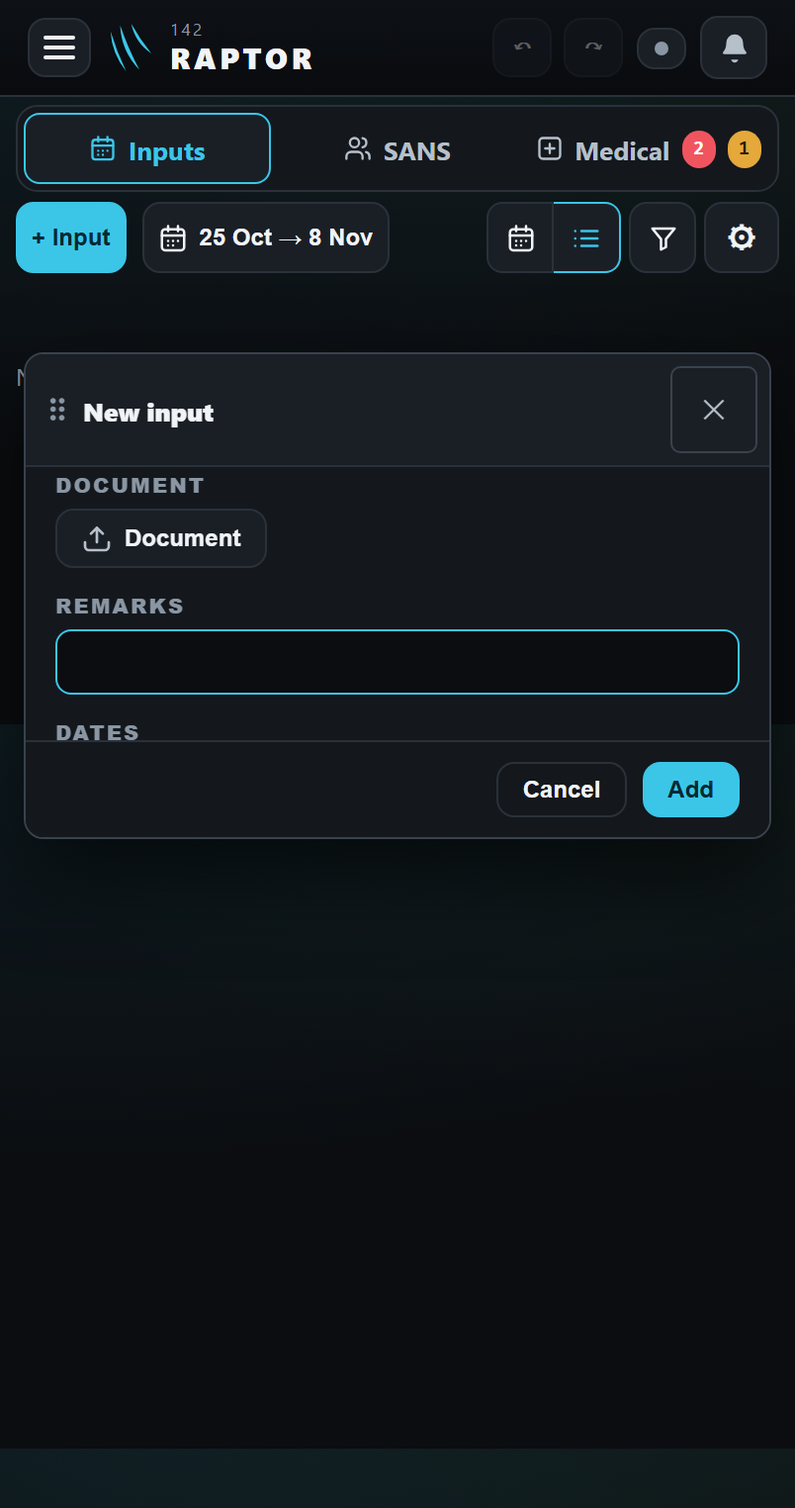
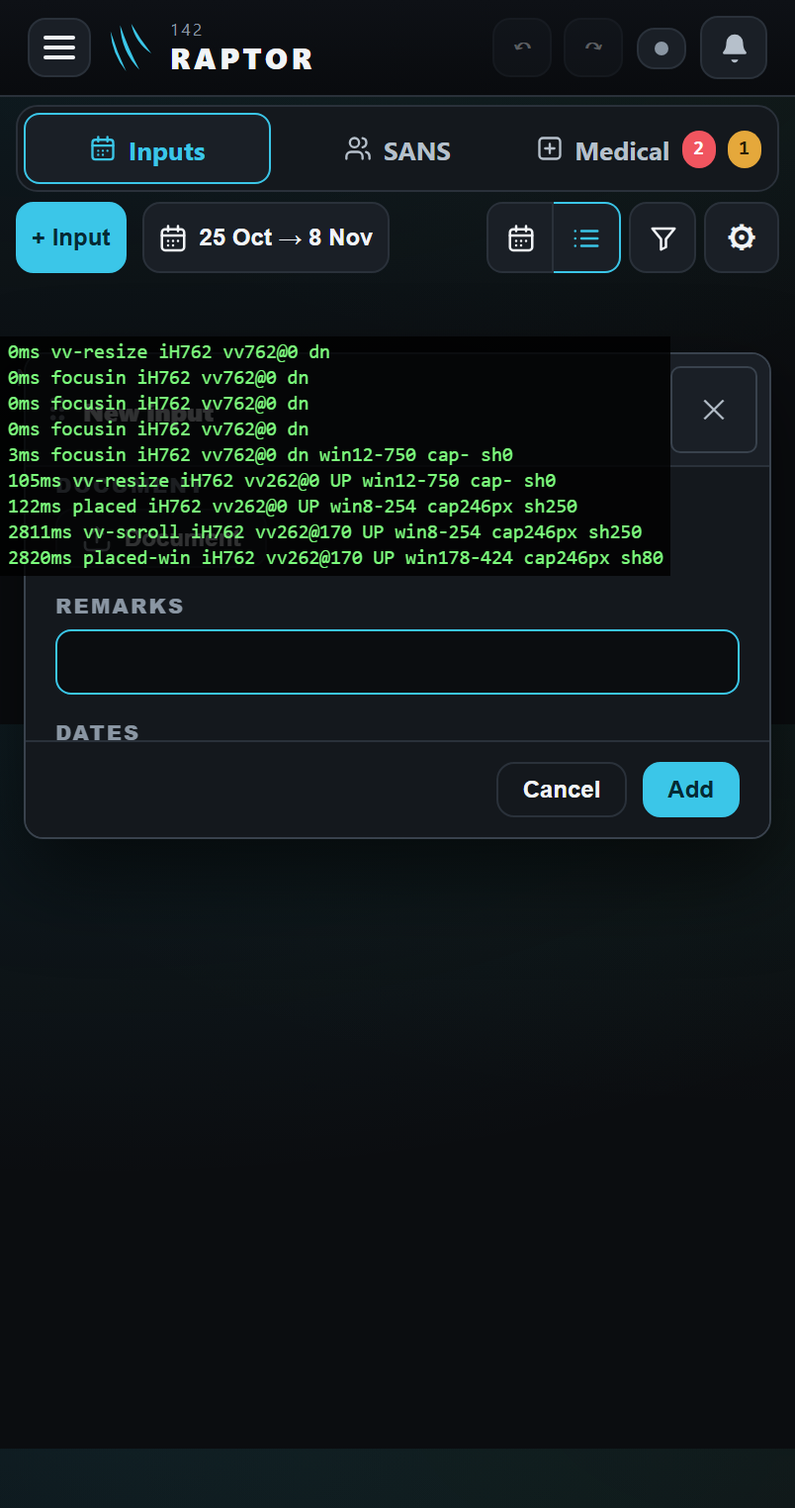
His recordings of 08:05: the hold now brings a window DOWN to the visible screen when the phone panned past its own place; ?kbdebug shows the phone's numbers on screen; the block rewritten as a handoff
"Other" and OD with the iPhone's form bar: the phone panned the visible screen down past the window's own place as the keys
came, and the hold pinned a window by raising it only, so it stayed above the screen - title off the top, a band under it,
Remarks behind Cancel / Add. pin() moves a window up or down to the visible top; a window that fits comes down to it too,
below its own place only when the phone panned past that place (a first, wider version moved full-screen panels at the top;
two older cases caught it). Red first: two kbscroll.test.ts cases failed on the previous code; e2e KS3f (OD, the keys and a pan
together). ?kbdebug: a small box at the top of the visible screen with the layout's and visible screen's sizes, the pan, the
keys, and the window's top, foot, hold and shift, event by event. kbscroll.test.ts 36/36, e2e kbscroll 13/13.

Changed region(s): [[0.0, 0.2159, 0.8706, 0.4009]]

diff --git a/raptor-port/src/ui/kbscroll.ts b/raptor-port/src/ui/kbscroll.ts
@@ -130,8 +130,10 @@ function lift(sc: Element, el: HTMLElement, bot: number, top: number): number {
 const LIFTED = new Set<HTMLElement>()
 const shiftOf = (l: HTMLElement) => +(l.dataset.kblift || 0)
 const held = (l: HTMLElement) => l.dataset.kbcap != null
+/* `s` up the screen; below zero, down it — a window the phone's own pan left above the visible screen comes down to it
+   (his recordings of 25 Oct 26 08:05, below at pin) */
 function setShift(l: HTMLElement, s: number) {
-  if (s > 0.5) { l.style.translate = `0 ${-Math.round(s)}px`; l.dataset.kblift = String(Math.round(s)); LIFTED.add(l); return }
+  if (Math.abs(s) > 0.5) { l.style.translate = `0 ${-Math.round(s)}px`; l.dataset.kblift = String(Math.round(s)); LIFTED.add(l); return }
   l.style.translate = ''; delete l.dataset.kblift
   if (!held(l)) LIFTED.delete(l)
 }
@@ -168,10 +170,16 @@ export function dropLifts(keep?: Element | null) {
   for (const l of [...FULL]) if (!keep || !l.contains(keep)) unholdFull(l)
   if (!keep && SPACER) { SPACER.remove(); SPACER = null }
 }
-/* a held window: held to the room again (the room may have changed), its top at the top */
+/* a held window: held to the room again (the room may have changed), its top at the top — UP OR DOWN (his recordings of
+   25 Oct 26 08:05, "Other" and OD, Remarks tapped: the iPhone had panned the visible screen down past where the window's own
+   place puts it, and the hold, which only ever raised a window, left it there — its title off the screen, a band of some 110
+   points between its foot and the keys, Remarks at its foot behind Cancel / Add) */
 function pin(l: HTMLElement, s0: number, visTop: number, visBot: number) {
   cap(l, visBot - visTop - 2 * GAP)
-  setShift(l, Math.max(0, s0 + l.getBoundingClientRect().top - (visTop + GAP)))
+  /* where the window's own place is (its top, less the shift it wears); below it only when the phone panned past it */
+  const own = l.getBoundingClientRect().top + s0
+  const s = own - (visTop + GAP)
+  setShift(l, own < visTop - 0.5 ? s : Math.max(0, s))
 }
 function raise(fixedEl: HTMLElement, el: HTMLElement, visTop: number, visBot: number): number {
   const fr = fixedEl.getBoundingClientRect()
@@ -196,9 +204,13 @@ function raise(fixedEl: HTMLElement, el: HTMLElement, visTop: number, visBot: nu
     pin(layer, s0, visTop, visBot)
     return 1
   }
-  const d = need > 0 ? Math.min(need, room) : Math.max(need, -s0)
+  let d = need > 0 ? Math.min(need, room) : Math.max(need, -s0)
+  /* a window that fits, its top left above the visible screen by the phone's own pan (his recordings of 25 Oct 26 08:05):
+     down to the visible top, past where it stands if need be — only then; otherwise never below where it stood */
+  const below = lr.top + s0 < visTop - 0.5 && lr.top - d < visTop + GAP - 0.5
+  if (below) d = lr.top - (visTop + GAP)
   if (Math.abs(d) < 0.5) return 0
-  setShift(layer, Math.max(0, s0 + d))
+  setShift(layer, below ? s0 + d : Math.max(0, s0 + d))
   return Math.abs(shiftOf(layer) - s0)
 }
 
@@ -333,9 +345,12 @@ export function installKbScroll(): () => void {
     if (!box || document.activeElement !== box || !box.isConnected || !keyboardUp(vv)) return
     /* a pan long after the focus: the window follows the visible screen, and nothing inside it is scrolled — a box he
        scrolled away from in it stays where he put it */
-    if (onlyWindow) { onlyWindow = false; const l = layerOf(box); if (l) raise(l, box, vv!.offsetTop, vv!.offsetTop + vv!.height); return }
+    if (onlyWindow) { onlyWindow = false; const l = layerOf(box); if (l) raise(l, box, vv!.offsetTop, vv!.offsetTop + vv!.height); placed('placed-win'); return }
     keepAboveKeyboard(box, vv!)
+    placed('placed')
   }
+  /* the readout's line after each placing (below); a no-op without ?kbdebug */
+  let placed: (ev: string) => void = () => {}
   /* two frames on: the board and the sheets re-fit themselves to the same resize first (their own listeners), and the
      box is measured where they left it */
   const soon = (windowOnly = false) => {
@@ -390,6 +405,35 @@ export function installKbScroll(): () => void {
     vvNow = vv; vvNow?.addEventListener('resize', resize); vvNow?.addEventListener('scroll', scroll)
   }
   follow(); noteFullHeight()
+  /* THE PHONE'S OWN NUMBERS ON SCREEN, ON ASKING (his recordings of 25 Oct 26 — Chromium cannot raise an iPhone's keyboard,
+     so what his phone does is read off his screen): with `?kbdebug` in the address, a small box at the top of the visible
+     screen shows the layout's height, the visible screen's height and pan, whether the keys count as up, and the window of
+     the box typed in — its top and foot, its hold and shift — line by line as each event comes. Nothing without it. */
+  const debug = typeof location !== 'undefined' && /[?&]kbdebug\b/.test(location.search)
+  let dbgEl: HTMLElement | null = null
+  const dbgLines: string[] = []
+  const dbg = (ev: string) => {
+    if (!debug) return
+    if (!dbgEl) {
+      dbgEl = document.createElement('div'); dbgEl.setAttribute('aria-hidden', 'true')
+      Object.assign(dbgEl.style, { position: 'fixed', left: '0', zIndex: '2147483647', pointerEvents: 'none', font: '10px/1.3 monospace', color: '#7CFC7C', background: 'rgba(0,0,0,.8)', padding: '2px 4px', whiteSpace: 'pre', maxWidth: '100vw' })
+      document.body.appendChild(dbgEl)
+    }
+    const vv = window.visualViewport
+    const l = box ? layerOf(box) : null, r = l?.getBoundingClientRect()
+    const t = box ? Date.now() - at : 0
+    dbgLines.push(`${t}ms ${ev} iH${Math.round(window.innerHeight)} vv${vv ? Math.round(vv.height) + '@' + Math.round(vv.offsetTop) : '-'} ${keyboardUp(vv) ? 'UP' : 'dn'}` +
+      (r ? ` win${Math.round(r.top)}-${Math.round(r.bottom)} cap${l!.style.getPropertyValue('--kbcap') || '-'} sh${l!.dataset.kblift || 0}` : ''))
+    while (dbgLines.length > 9) dbgLines.shift()
+    dbgEl.textContent = dbgLines.join('\n')
+    dbgEl.style.top = Math.round(vv ? vv.offsetTop : 0) + 'px'
+  }
+  if (debug) {
+    placed = dbg
+    for (const [tgt, ev] of [[document, 'focusin'], [window, 'resize']] as const) tgt.addEventListener(ev, () => requestAnimationFrame(() => dbg(ev)), true)
+    window.visualViewport?.addEventListener('resize', () => requestAnimationFrame(() => dbg('vv-resize')))
+    window.visualViewport?.addEventListener('scroll', () => requestAnimationFrame(() => dbg('vv-scroll')))
+  }
   const focusAlso = (e: FocusEvent) => { follow(); focusin(e) }
   document.addEventListener('focusin', focusAlso, true)
   document.addEventListener('focusout', focusout, true)

diff --git a/raptor-port/e2e/kbscroll.spec.ts b/raptor-port/e2e/kbscroll.spec.ts
@@ -186,6 +186,35 @@ test.describe('the box being typed in shows above the keyboard — phone', () =>
     expect(bBot, 'and above the keys').toBeLessThanOrEqual(H - kb - GAP + 1)
   })
 
+  /* KS3f — his recordings of 25 Oct 26 08:05 ("Other", OD, the ˄ ˅ ✓ bar): the phone panned the visible screen down past the
+     window's own place as the keys came, and the hold — which only ever raised a window — left its title off the screen and
+     a band between its foot and the keys. */
+  test('KS3f the phone pans past the window as the keys come: the held window comes down to the visible top, no band, Remarks shown', async ({ page }) => {
+    await login(page); await go(page, 'inputs')
+    await page.click('#inListBtn'); await page.click('#inNew')
+    const win = page.locator('[data-testid="win-inputedit"]')
+    await expect(win).toBeVisible()
+    await page.evaluate(() => {
+      const s = [...document.querySelectorAll('[data-testid="win-inputedit"] select')].find(s => [...(s as HTMLSelectElement).options].some(o => o.text.trim() === 'OD'))
+      s!.setAttribute('data-kind-sel', '')
+    })
+    await win.locator('select[data-kind-sel]').selectOption({ label: 'OD' })
+    const box = page.locator('#inpEditRmk'), foot = win.locator('.airpop-foot')
+    await box.evaluate(e => e.scrollIntoView({ block: 'nearest' }))
+    await page.waitForTimeout(600)
+    await tap(page, box); await expect(box).toBeFocused()
+    const kb = 460, PAN = 186
+    /* the keys and the phone's own pan together, as his recording shows them */
+    await page.evaluate(([k, p]) => { const v = (window as any).__vv; v.height = innerHeight - k; v.offsetTop = p; v.pageTop = p; v.dispatchEvent(new Event('resize')); v.dispatchEvent(new Event('scroll')) }, [kb, PAN])
+    await expect.poll(() => win.evaluate((e, p) => Math.round(e.getBoundingClientRect().top - p), PAN), { message: 'its title at the visible top' }).toBeGreaterThanOrEqual(0)
+    const winBot = await win.evaluate((e, p) => Math.round(e.getBoundingClientRect().bottom - p), PAN)
+    expect(winBot, 'no band left between the window and the keys').toBeGreaterThanOrEqual(H - kb - 3 * GAP)
+    const bBot = await box.evaluate((e, p) => Math.round(e.getBoundingClientRect().bottom - p), PAN)
+    const fTop = await foot.evaluate((e, p) => Math.round(e.getBoundingClientRect().top - p), PAN)
+    expect(bBot, 'Remarks above Cancel / Add').toBeLessThanOrEqual(fTop)
+    expect(bBot, 'and above the keys').toBeLessThanOrEqual(H - kb - GAP + 1)
+  })
+
   /* KS6 — D1081 (his recordings: the board a frame or three out of place as the keys closed, first when it followed the
      visible screen on its events, still when it followed frame by frame). The board is no longer placed by script at all:
      it keeps the layout's full size whatever the visible screen does, so it moves with the iPhone's own scroll. And a

diff --git a/raptor-port/src/ui/kbscroll.test.ts b/raptor-port/src/ui/kbscroll.test.ts
@@ -235,6 +235,43 @@ describe('a window that cannot scroll is raised instead', () => {
   })
 })
 
+/* HIS RECORDINGS, 25 Oct 26 08:05 — "Other" and OD, Remarks tapped, the iPhone's ˄ ˅ ✓ bar over the keys: the phone had
+   panned the visible screen down (offsetTop 186) past where the window's own place puts it (its top at 12), and the hold,
+   which only ever raised a window, left it there: its title off the screen, a band between its foot and the keys. */
+describe('a window the phone panned past', () => {
+  const vvPanned = { height: 416, offsetTop: 186, scale: 1 }   // the visible screen: 186–602 of the layout
+  afterEach(() => dropLifts())
+  const tall = (h: number) => {
+    document.body.innerHTML = '<div id="w" style="position:fixed"><input id="b"></div>'
+    const w = document.getElementById('w')!, b = document.getElementById('b') as HTMLInputElement
+    let st = 0
+    w.style.overflowY = 'auto'
+    const wh = () => (w.dataset.kbcap != null ? parseInt(w.style.getPropertyValue('--kbcap')) : h)
+    Object.defineProperty(w, 'scrollTop', { configurable: true, get: () => st, set: v => { st = Math.max(0, Math.min(Math.max(0, 700 - wh()), v)) } })
+    Object.defineProperty(w, 'scrollHeight', { configurable: true, get: () => Math.max(700, wh()) })
+    Object.defineProperty(w, 'clientHeight', { configurable: true, get: () => wh() })
+    w.getBoundingClientRect = () => { const top = 12 - +(w.dataset.kblift || 0); return { top, bottom: top + wh(), left: 0, right: 100, width: 100, height: wh(), x: 0, y: top, toJSON() {} } as DOMRect }
+    return { w, b }
+  }
+  it('a window taller than the room: held to it and brought DOWN to the visible top — no band, the title in sight, the box shown', () => {
+    const { w, b } = tall(700)
+    place(b, 470, 30)                                          // in sight of the visible screen (186–602) already
+    keepAboveKeyboard(b, vvPanned)
+    expect(w.style.getPropertyValue('--kbcap')).toBe(`${416 - 2 * GAP}px`)
+    expect(w.getBoundingClientRect().top, 'its title at the visible top').toBe(186 + GAP)
+    expect(w.getBoundingClientRect().bottom, 'its foot at the keys, no band').toBe(186 + 416 - GAP)
+    expect(b.getBoundingClientRect().top).toBeGreaterThanOrEqual(186 + GAP)
+    expect(b.getBoundingClientRect().bottom).toBeLessThanOrEqual(186 + 416 - GAP)
+  })
+  it('a window that fits, its top above the visible screen: brought down to the visible top, not held', () => {
+    const { w, b } = tall(300)
+    place(b, 200, 30)
+    keepAboveKeyboard(b, vvPanned)
+    expect(w.dataset.kbcap).toBeUndefined()
+    expect(w.getBoundingClientRect().top).toBe(186 + GAP)
+  })
+})
+
 describe('keyboardUp', () => {
   it('reads a keyboard from a visible screen much shorter than the layout, never while pinch-zoomed', () => {
     expect(keyboardUp(vvUp)).toBe(true)

diff --git a/HANDOFF.md b/HANDOFF.md
@@ -21,28 +21,18 @@ the later merge keeps both (D78).
 
 ## Now
 <!-- now:claude/lw-m3-placing-leave -->
-### `claude/lw-m3-placing-leave` — THE NIGHT OF 25 OCT 26 DONE: three builds FULL-checked and closed, the drawings on his page; next: his answers (N1–N5), then build them — written 25 Oct 26, 05:30 — verify before use
-- **After a compaction:** re-read this block, the overnight guide (`.claude/skills/overnight/SKILL.md`) and the files of the step in hand before the next change; note the compaction here with its time.
-- **Compacted 25 Oct 26, 06:58** (the morning, his follow-ups drawn); after it: the OTH question’s pictures being taken (`2026-10-25-lw-drawings/oth/`, script `lw-1025-oth.mjs`), the answer put to him with them.
-- **His word:** /overnight 12; then "The rest of the questions as recommended" (recorded D1350–D1355); asked for the drawings to answer before sleeping, then "Nvm u work on overnight I'll sleep" — so the night runs the recommended jobs, and the looks he has not yet seen in a picture wait for his morning answers (a skipped question is never a yes).
-- **Branch:** `claude/lw-m3-placing-leave` (upstream `origin/claude/lw-m3-placing-leave`), pull request 569, open, not merged; it carries 568 merged in. "Merge live" is his; 568 first (D78). Nothing merges tonight; nothing touches `main`.
-- **The night, in order (one branch, one FULL check of the builds — D485):**
-  1. **The bubble (his report; D1344, D1345, D1351)** — BUILT (fb564b6a8, 245ea4fb9): red when it says red, raised again by every bid, filing or move that takes an amber or red row lower ("This bid takes Available P lower, still red." — words his to change), at the foot too, naming a filing ("This UNA …", "This overseas duty …"). `bidbubble.test.tsx` 26 / 26, red first.
-  2. **The drag window's words kept (D1339, D1341)** — BUILT (4ce6bf536): typed words written on every dragged day's entry before Approve, Refuse or Move, replacing their remarks; an empty box changes nothing (the agent's reading). `dragwords.test.tsx` 5 / 5, red first; neighbours 178 / 178.
-  3. **A tap on a half-day UNA's day opens the free half's window (D1353)** — HELD as a question: the day's list is today where an admin changes a half-day UNA's remarks or takes it away and where everyone reads its remarks; the window would lose those, which the ruling does not cover — drawn for him (`2026-10-25-lw-drawings/una-tap/`), nothing built.
-  4. **His own approved leave and his closed day take round 3's one Remarks row (D1354)** — BUILT (87eebf967): saved as it changes, no Save; red first, 23 / 23, neighbours 89 / 89.
-  5. **[LW-ENTERED-DATE-UTC]** — found already built with M3 (08b5936ee) and never closed: archived (b1503f863). GitHub's build had failed on the bubble's blank Available figure — fixed in the same commit, checked with the real build.
-  6. **The FULL check of 1, 2, 4 — CLOSED** (sheet `raptor-port/docs/handpass/2026-10-25-lw-night.md`, its Walk line): the designer's 4 gaps, the walk's 7 faults, the code read's 6 (R1–R6), the narrow reads' 5 (N1–N4, T1) all fixed; re-walk 47 / 47; older finds filed [LW-NIGHT1025-OLDER] — (a) words typed for an afternoon bid land on the morning bid, to fix first.
-  7. **The morning page** — PUBLISHED (version 3): drafted at `raptor-port/docs/img/handpass/2026-10-25-lw-drawings/page/index.html` (N1–N5, B1, the answered list); N5's pictures to add from `una-tap/`; published to https://claude.ai/artifact/AuALCgzEgpoxooyyGX7EM6 (files mapped `n25/<folder>/<file>` from `2026-10-25-lw-drawings/`) as the night's last step.
-  8. **[LW-READS-OWED-1024]** — DONE (6aff8a7db): nine short lines and two full-row marks fixed, lesson 54 corrected; lessons 49, 50, 52 left, their fixes worded in `parts/lw-1025/reads-1305-1355.md`. Design lesson 54 written (D941).
-- **Drawn tonight, all in `raptor-port/docs/img/handpass/2026-10-25-lw-drawings/`:** `contrast/` and `critique-a/` (the lit Approve / Refuse — D1348, D1355; the design skill's critique, both assessments saved whole in `raptor-port/docs/handpass/parts/lw-1025/critique-a.md`, `critique-b.md`); `bubble/` (job 1's look); `multi-day/` (D1340); `una-grey/` and `drag-remarks/` (D1349, D1347 — the helper still drawing when this was written).
-- **Morning of 25 Oct 26, after the compaction:** (1) **his bug — the input window's Remarks behind Cancel / Add on his iPhone — FIXED** (0d1e5ec42): the keyboard lift (`src/ui/kbscroll.ts keptClear`) keeps clear of a panel's pinned foot (its scroll padding; a sticky button row three deep); red first (`kbscroll.test.ts` 3 cases, `e2e/kbscroll.spec.ts` KS3d), WALK sheet `raptor-port/docs/handpass/2026-10-25-kbs-other-remarks.md` with its Walk line, §7.11 lesson 5 (one fresh reader, its wording taken); his iPhone look waits; the cut-off top and band — a late pan of the screen the held window did not follow — read from his recording of 07:40 and fixed too (KS3e). (2) **The questions page is version 6** (https://claude.ai/artifact/AuALCgzEgpoxooyyGX7EM6): only what is open, newest first (his "remove the not applicable … should it always be at the top" — put to him as a question, recommended yes; it would narrow D1237): K1 (the fix, his look), O1 ("Other" in place of UNA — recommended yes: whoever files an Other picks Ground Programme or Unavailable, one under Unavailable counts him out on the Leave War with its remarks; his leaning, members choose too, "I don't think anyone is dumb enough to put it in the wrong category"; not a ruling until he answers — D1343's lesson; a yes replaces D1338 and changes D998, D1303's worry, D1349, D1353, D1351's "This UNA"; the follow-on question — other commitments under Unavailable — comes after), N3 (the joined bar, and on a busy first or last day the bar runs to that day's middle — his idea, drawn `multi-day/half1–4`; a middle day breaks), B1b, N2, N4, B1. N1 and N5 left the page: they become Other's if O1 is yes. Pictures: `oth/` (script `lw-1025-oth.mjs`), `multi-day/half*`, `kbs/`. **Then: O1 answered "yes" — recorded D1356 (UNA goes; an Other under Unavailable counts him out), filed [LW-OTHER-UNAVAIL]; asked which other commitments should count under Unavailable, and whether the bubble should always sit at the foot — both open.**
-- **Questions waiting for him (each its picture on the morning page; put in D1301's order — a colour before the looks it shapes — so UNA's grey comes first):** (0) UNA's grey and Grant OIL's place (D1349); (1) the lit look — recommended: Approve and Refuse rest grey with their words coloured, the decided one solid green or red with dark words reading "Approved" / "Refused" (D1348, D1355); and a second tap on a lit Refuse sends the bid back to waiting, as Approve's does (D1330) — recommended yes; (2) how a multi-day entry reads as one — recommended the joined bar (D1340); (3) the drag window's remarks lines over separate entries (D1347). Each look waits for his answer; nothing of it is built tonight.
-- **Open residue:** [CSS-FONT-INHERIT]; [LW-PICK-HELD-MARK], [LW-MORE-BELOW-CUE], [LW-BID-BUBBLE] (D1344 settles its colour), [INP-CAL-CLICK-BEHIND-NEW], [INP-ADD-RIGHT], [LW-OPENDATES-X-SIZE]; [NO-ASTRA-LIST]. M4 and M5 must leave UNA out when built.
-- **Allowance:** weekly 78% at the start, 81% at the close (resets Mon 26 Oct, evening); this chat 91% full at the close, not compacted.
-- **Opening line:** Switch this chat to the branch claude/lw-m3-placing-leave: git fetch origin, git switch claude/lw-m3-placing-leave, git branch -u origin/claude/lw-m3-placing-leave, git pull --ff-only. If the switch is refused because another checkout holds the branch, release it there only if that checkout has no uncommitted changes and its HEAD equals git rev-parse origin/claude/lw-m3-placing-leave; then git -C <that folder> switch --detach and switch again; otherwise stop and tell me which folder holds it. Then read HANDOFF.md — the claude/lw-m3-placing-leave block under ## Now — record my answers to the questions page (N1–N5, B1's words), then build them on this branch with one check, and fix [LW-NIGHT1025-OLDER] (a) with them. Check Remote Control is on for this chat and switch it on if not.
-- **Running:** the preview on port 4180 (`raptor-preview`, this branch's build) — rebuilt only after the drawing helpers finish.
-- **Notes:** ruling numbers taken to D1355; observation numbers to 698. Traps: an inline `node -e` loses escapes — write scripts with the file tool; saved war records on a built site are `raptor:leavewar/rec:…` with `pid` / `date` (observation 696); the grid swaps the bid window for a filed input's own window once the tapped day holds it; a test of an approval needs the war wired to the Inputs page (`wireLeaveWarSync`, as `reqwords.test.ts`).
+### `claude/lw-m3-placing-leave` — 25 OCT 26: the night's three builds closed; his keyboard bug fixed in three rounds (his iPhone look owed); D1356–D1358 recorded; next: his remaining answers, then build them all with one check — written 25 Oct 26, 08:50 — verify before use
+- **After a compaction:** re-read this block and the files of the step in hand before the next change; note the compaction here with its time. (Compacted once, 25 Oct 26 06:58.)
+- **Branch:** `claude/lw-m3-placing-leave` (upstream `origin/claude/lw-m3-placing-leave` — check `branch.<b>.merge` before a push), pull request 569, open; it carries 568 merged in. "Merge live" is his; 568 first (D78). Nothing merged.
+- **The night of 25 Oct (closed):** the bubble (D1344, D1345, D1351), the drag window's words (D1339, D1341), the one Remarks row (D1354) — FULL-checked, sheet `raptor-port/docs/handpass/2026-10-25-lw-night.md` with its Walk line; older finds [LW-NIGHT1025-OLDER] — (a) words typed for an afternoon bid land on the morning bid, to fix first.
+- **His keyboard bug, this morning (three rounds, each red first, GitHub green on each push):** the input window's Remarks hidden behind Cancel / Add on his iPhone. (1) the lift keeps clear of a panel's pinned foot (`src/ui/kbscroll.ts keptClear`); (2) from his recording of 07:40, a window lifted for the keys follows a late pan or resize of the visible screen; (3) from his recordings of 08:05 ("Other" and OD, the ˄ ˅ ✓ bar), the pin brings a window DOWN to the visible top when the phone panned past its own place. `?kbdebug` in the address shows the phone's numbers on screen. Tests: `kbscroll.test.ts` 36, `e2e/kbscroll.spec.ts` KS3d–KS3f (13); walk sheet `raptor-port/docs/handpass/2026-10-25-kbs-other-remarks.md` (Walk line); §7.11 lesson 5; frames read with `scripts/handpass/video-frames.mjs`; replay `scripts/handpass/kbs-other-rmk.mjs` (KIND, H, KB, SHRINK, MODE=pan, FROM=day, KBDEBUG). **Owed: his iPhone look** — close the tab, reopen, Inputs → + Input → Other / OD (also from a calendar day) → Remarks; if it still fails, the same with `?kbdebug` and a recording.
+- **His rulings this morning:** D1356 ("O1 yes" — UNA goes; whoever files an Other picks Ground Programme or Unavailable; an Other under Unavailable counts him out on the Leave War with its remarks shown everywhere; Grant OIL takes the bid window's third place, Other into ⋯), D1357 ("2 yes" — any commitment under Unavailable counts him out, whatever its kind; only an Other gives its filer the choice), D1358 ("3 yes" — the manning bubble always at the foot, phone and desktop, Show › only while the Manning rows are out of view). Filed as [LW-OTHER-UNAVAIL] and [LW-BUBBLE-FOOT]. Each read by a fresh reader.
+- **The questions page, version 6** (https://claude.ai/artifact/AuALCgzEgpoxooyyGX7EM6; drafted at `raptor-port/docs/img/handpass/2026-10-25-lw-drawings/page/index.html`, pictures mapped `n25/<folder>/<file>`): only what is open, newest first. **Still open:** N3 (the joined bar; on a busy first or last day it runs to that day's middle, his idea — `multi-day/half1–4`; a middle day breaks), B1b (the bubble's figures, recommended "This bid: IP 16 → 15 · SXO 12 → 11"), N2 (the lit Approve / Refuse), N4 (the drag window's remarks lines), B1 (the bubble as built, his to change), and his question "only what is open, newest first on every page?" (recommended yes — it would narrow D1237). O1 answered (D1356). Last night's N1 (UNA's grey) and N5 (the half-day UNA tap) become an Other's colour and the half-day Other tap — to redraw for Other.
+- **Next, in order:** (1) his iPhone look at the keyboard fix; (2) his answers to N3, B1b, N2, N4 and the page question, recorded at once; (3) draw an Other's colour on the Leave War (D1349's grey beside it) and the half-day Other tap, put to him; (4) build on this branch, one FULL check: [LW-R2R3-ANSWERS-BUILD] (D1350–D1355 and his answers), [LW-OTHER-UNAVAIL] (D1356, D1357), [LW-BUBBLE-FOOT] (D1358), [LW-NIGHT1025-OLDER] (a).
+- **Open residue:** [CSS-FONT-INHERIT]; [LW-PICK-HELD-MARK], [LW-MORE-BELOW-CUE], [LW-BID-BUBBLE], [INP-CAL-CLICK-BEHIND-NEW], [INP-ADD-RIGHT], [LW-OPENDATES-X-SIZE]; [NO-ASTRA-LIST]. M4 and M5 must leave UNA out (it goes — D1356).
+- **Allowance:** weekly 83% (resets Mon 26 Oct, evening); this chat about 76% full at this writing.
+- **Opening line:** Switch this chat to the branch claude/lw-m3-placing-leave: git fetch origin, git switch claude/lw-m3-placing-leave, git branch -u origin/claude/lw-m3-placing-leave, git pull --ff-only. If the switch is refused because another checkout holds the branch, release it there only if that checkout has no uncommitted changes and its HEAD equals git rev-parse origin/claude/lw-m3-placing-leave; then git -C <that folder> switch --detach and switch again; otherwise stop and tell me which folder holds it. Then read HANDOFF.md — the claude/lw-m3-placing-leave block under ## Now — take my answers to the questions page (N3, B1b, N2, N4 and the page question), draw an Other's colour and the half-day Other tap for me, then build everything listed under "Next" on this branch with one FULL check. Check Remote Control is on for this chat and switch it on if not.
+- **Notes:** ruling numbers taken to D1358. Traps: an inline `node -e` or heredoc with an apostrophe mangles — write scripts with the file tool; `tsc --noEmit` is hollow, build with `npm run build`; a war test of an approval needs `wireLeaveWarSync`; his Safari keeps the page it loaded — ask him to reopen the tab before a look.
 <!-- /now -->
 <!-- now:claude/lw-phone-pinch-zoom -->
 ### `claude/lw-phone-pinch-zoom` — the Leave War's pinch to zoom ([LW-PHONE-PINCH-ZOOM]; D1282–D1285, D1228, D1276): built, walked, read; his iPhone look next — written 23 Oct 26, verify before use

diff --git a/raptor-port/docs/file-map.md b/raptor-port/docs/file-map.md
@@ -1,5 +1,5 @@
 # The file map — where each source file lives and what it does
-His report of 25 Oct 26 (the input window's Remarks behind Cancel / Add on his iPhone). **New:** `scripts/handpass/kbs-other-rmk.mjs` (the input window with a stand-in keyboard — a kind, the layout's and the keys' heights, the page shortened, a late pan), `scripts/handpass/kbs-hol.mjs` (Holidays' form the same way). **Changed:** `src/ui/kbscroll.ts` (a panel's pinned foot kept clear — `keptClear`; a window lifted for the keys follows a late pan or resize — `lifted`, `soon(true)`), `src/ui/kbscroll.test.ts` (five cases, one corrected), `e2e/kbscroll.spec.ts` (KS3d, KS3e).
+His report of 25 Oct 26 (the input window's Remarks behind Cancel / Add on his iPhone). **New:** `scripts/handpass/kbs-other-rmk.mjs` (the input window with a stand-in keyboard — a kind, the layout's and the keys' heights, the page shortened, a late pan), `scripts/handpass/kbs-hol.mjs` (Holidays' form the same way). **Changed:** `src/ui/kbscroll.ts` (a panel's pinned foot kept clear — `keptClear`; a window lifted for the keys follows a late pan or resize — `lifted`, `soon(true)`; the pin moves a window down to the visible top when the phone panned past it; `?kbdebug`, the phone's numbers on screen), `src/ui/kbscroll.test.ts` (seven cases, one corrected), `e2e/kbscroll.spec.ts` (KS3d, KS3e, KS3f); `scripts/handpass/kbs-other-rmk.mjs` takes FROM=day (opened from a calendar day) and KBDEBUG=1.
 The night of 25 Oct 26 on `claude/lw-m3-placing-leave` (his bubble report D1344, D1345, D1351; the drag window's words D1339, D1341; the drawings for D1348, D1349, D1340, D1347). **New:** `src/leavewar/ui/bidbubble.test.tsx`'s report cases (red when red, every lowering, a filing named), `src/leavewar/ui/dragwords.test.tsx` (the drag window's typed words kept on Approve, Refuse and Move), `scripts/handpass/lw-1025-contrast.mjs` (the lit Approve / Refuse, options A–C), `lw-1025-bubble.mjs` (the bubble today and drawn), `lw-1025-multiday.mjs` (a multi-day entry: his three boxes and the joined bar), `lw-1025-una-grey.mjs` (UNA grey in two shades, Grant OIL in the row, UNA in the ⋯), `lw-1025-drag-remarks.mjs` (the drag window's remarks lines); the pictures `docs/img/handpass/2026-10-25-lw-drawings/`; the design skill's critique `docs/handpass/parts/lw-1025/`. **Changed:** `src/leavewar/ui/Matrix.tsx` (`worsenedRows` reads each row's figure, `bubbleWords`, the bubble's level class), `src/leavewar/ui/chrome.css` (`.mnb-red`), `src/leavewar/state/store.ts` (`actCount`, `filedSince`, `setRemarksOn`), `src/leavewar/ui/SelectSheet.tsx` (`keepWords`).
 UNA on the Leave War only, an admin's ([LW-OTH-MANNING] — D1338), 24 Oct 26. **New:** `src/leavewar/una.test.ts` (the record, its halves, the day view, the store's admin-only commands, the commit's member check, a reload). **Renamed:** `src/engine/unakind.test.ts` → `src/engine/unagone.test.ts` (UNA is no input kind). **Changed:** `src/engine/inputs.ts`, `schema.ts`, `src/testing/refwin.ts`, `src/ui/inputscal-model.ts`, `scheduler/25-inputs-calendar.css` (UNA out of the Inputs side); `src/leavewar/engine/warrecs.ts` (`UnaRec`), `codes.ts` (UNA takes a half), `dayview.ts` (kind `una`: away, no charge), `charge.ts`, `state/merge.ts`, `state/daypanel.ts`, `ui/LeaveLine.tsx`; `src/leavewar/state/store.ts` (`placeUna`, `setUnaRemarks`, `removeUna`, `lw.una`; the deletes and the Move's stay list); `src/state/perms.ts` (`lw.una` and the commit's lw.cell check), `src/undo/describe.ts`; `ui/LeaveButtons.tsx` (`UnaButton`), `BidPicker.tsx`, `SelectSheet.tsx`, `DayList.tsx` (its line, `UnaWords`), `ReqWords.tsx` (`useGrow` exported), `Matrix.tsx`, `MatrixRows.tsx`, `Chrome.tsx`; `engine/seed.ts` (the demo's one UNA, a war record).
 Round 2 — a course, an overseas duty and the unforeseen absence filed on the Leave War ([LW-FILE-OD-CRS] — D1318, D1324, D1325), 24 Oct 26. **New:** `src/engine/unakind.test.ts` (UNA, the overseas duty's twin; the LATE mark skips it), `src/leavewar/ui/round2.test.tsx` (filed straight — the store, the one Undo, a member's own row, the three windows' rows, the Legend), `e2e/round2-leavewar.spec.ts` (the row's four even places and colours in a real browser), `docs/superpowers/specs/2026-10-24-lw-file-od-cse-una.md` (the design note). **Changed:** `src/engine/inputs.ts` (the kind UNA; `isLateInput`), `src/engine/schema.ts`, `src/testing/refwin.ts` (the reference's mirror of the kind sets), `src/leavewar/absences.ts`, `engine/dayview.ts`, `engine/codes.ts` (UNA a war kind, `una`), `src/leavewar/state/store.ts` (`fileStraight`, the absence door's `file`, `lw.file` registered), `src/leavewar/sync.ts` (`doorFile`), `src/state/perms.ts` and `src/undo/describe.ts` (`lw.file`), `src/leavewar/ui/LeaveButtons.tsx` (`DutyButtons`), `BidPicker.tsx`, `SelectSheet.tsx`, `ClosedNoteSheet.tsx` (the row), `Chrome.tsx` (the Legend's UNA), `matrix.css`, `src/ui/inputscal-model.ts` and `scheduler/25-inputs-calendar.css` (UNA's teal bar).

diff --git a/raptor-port/docs/ui-contracts.md b/raptor-port/docs/ui-contracts.md
@@ -843,7 +843,13 @@ own body scrolls the box into sight. **A window raised or held for the keys foll
 they are up and its box has the focus (his recording, 25 Oct 26 07:40 — the iPhone's password bar rose and the phone panned
 the screen some 170 points down after the focus window below; the held window stayed behind, its top off the screen, a band
 under it):** a late pan moves the window alone, nothing inside it scrolled; a late change of the room holds it to the new
-room and keeps its box in sight. **A panel's own pinned foot is kept clear (his report, 25 Oct 26 07:06 — the input
+room and keeps its box in sight. **And it comes DOWN to the visible screen when the phone panned past its own place (his
+recordings of 25 Oct 26 08:05, "Other" and OD with the ˄ ˅ ✓ bar):** the hold used to raise a window only, so a window whose
+own place lay above the visible screen stayed there — its title off the top, a band under it; now it is pinned to the visible
+top up or down, and a window that fits is brought down to it — below its own place only then. **`?kbdebug` in the address**
+shows the phone's own numbers in a small box at the top of the visible screen (the layout's height, the visible screen's height
+and pan, the keys up or down, the window's top, foot, hold and shift, event by event) — for reading a fault off his recording.
+**A panel's own pinned foot is kept clear (his report, 25 Oct 26 07:06 — the input
 window on his iPhone, "Other", Remarks tapped: Document, then Cancel / Add, no Remarks):** the floor a box is lifted to in a
 scrolling panel stands above what the panel covers at its edges — its `scroll-padding` (the input window's 64px) and a button
 row it holds sticky at its foot (its last child, three deep, measured as it stands — Holidays' buttons) — so a window held
@@ -871,7 +877,7 @@ the measuring back two frames, so the lift never adds to a pan the phone is stil
 itself — on his iPhone a focus given at the end of the touch never took (his recording of 19 Oct 26 16:59); the tap is the
 browser's. The keys count
 as up against the tallest visible screen seen at this width with nothing typed in (never one read taller than the layout). Pinned: `ui/kbscroll.test.ts`,
-`ui/amendbatch-app.test.tsx` (the board as page content), `e2e/kbscroll.spec.ts` KS1–KS8, KS3d (the pinned foot) and KS3e (a late pan) (a stand-in visual viewport —
+`ui/amendbatch-app.test.tsx` (the board as page content), `e2e/kbscroll.spec.ts` KS1–KS8, KS3d (the pinned foot), KS3e (a late pan) and KS3f (a pan past the window) (a stand-in visual viewport —
 Chromium cannot raise an iPhone keyboard).
 
 **A button pressed straight after a changed box does its job (`[EDIT-BUTTON-AFTER-CHANGE]`, 19 Oct 26).** The press

diff --git a/raptor-port/docs/handpass/2026-10-25-kbs-other-remarks.md b/raptor-port/docs/handpass/2026-10-25-kbs-other-remarks.md
@@ -77,6 +77,19 @@ No console or page errors in any run.
 - Looked at: `kbs/other-latepan-visible-phone.png` — the visible screen after the pan, cut to it: the title, Remarks, Cancel / Add.
 - The pull request's GitHub run — read after the push.
 
+## The third round — his recordings of 08:05 (the fixed build)
+
+"Sometimes it works": with the iPhone's key/card/pin bar over the keys the window behaved; with its ˄ ˅ ✓ form bar ("Other"
+and OD, the window opened from a calendar day) it was held short, its title off the top, a band of some 110 points under it,
+Remarks behind Cancel / Add. Read from the frames: the phone had panned the visible screen down past the window's own place as
+the keys came; the hold pinned a window by raising it only (a shift never below zero), so it stayed where it stood. **Fix:** the
+pin moves a window up or down to the visible top, and a window that fits comes down to it too — below its own place only when
+the phone panned past that place (a full-screen panel at the top is left where it is: two older cases caught a first, wider
+version). Red first: two cases (`a window the phone panned past`) failed on the previous code; KS3f in the browser (OD, the keys
+and a pan of 186 together). `?kbdebug` added to read his phone's numbers if anything is left. Gates: `kbscroll.test.ts` 36 / 36,
+`amendbatch-app.test.tsx` with it 43 / 43, `e2e/kbscroll.spec.ts` 13 / 13 (built under the lock). Looked at:
+`kbs/other-kbdebug-visible-phone.png` — the readout's lines and the window following the pan.
+
 **Walk:** WALK — the input window (Other, Training, LL) at four keyboards and Holidays' form, phone 402, Chromium with a
 stand-in keyboard; 14 runs, every picture taken after the tap; 0 left under the buttons (was 33px of 33); then his recording's
 late pan, replayed at two sizes on the fixed build — the window follows, no band, the title in sight; his iPhone not yet.
